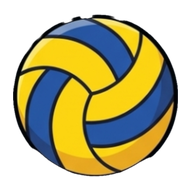
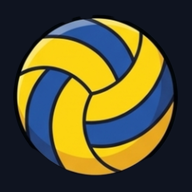
앱 아이콘 어두운 배경으로 복원, 배구공 로딩 화면 추가
- 아이콘 배경을 앱 배경색(#0f1420)으로 변경 → 안드로이드 실행 화면에 배구공만 표시
- 데이터 로딩 동안 단색 배경 + 배구공 로딩 화면 표시 후 페이드아웃
- 서비스워커 캐시 버전 v5

diff --git a/index.html b/index.html
@@ -9,8 +9,16 @@
   <link rel="icon" href="icons/icon-192.png" type="image/png">
   <link rel="apple-touch-icon" href="icons/apple-touch-icon.png">
   <link rel="stylesheet" href="styles.css">
+  <style>
+    #splash { position: fixed; inset: 0; z-index: 9999; display: grid; place-items: center;
+      background: #0f1420; transition: opacity .35s ease; }
+    #splash img { width: 96px; height: 96px; animation: splash-spin 1.4s linear infinite; }
+    #splash.out { opacity: 0; pointer-events: none; }
+    @keyframes splash-spin { to { transform: rotate(360deg); } }
+  </style>
 </head>
 <body>
+  <div id="splash"><img src="icons/ball.png" alt=""></div>
   <div id="app">
     <header id="scorebar"></header>
 

diff --git a/app.js b/app.js
@@ -498,4 +498,12 @@ async function init() {
   }
   if ('serviceWorker' in navigator) navigator.serviceWorker.register('sw.js').catch(() => {});
 }
-init();
+
+// 로딩 화면: 준비되면 (최소 0.6초 보여준 뒤) 사라짐
+const splashMin = new Promise(r => setTimeout(r, 600));
+init().finally(() => splashMin.then(() => {
+  const el = document.getElementById('splash');
+  if (!el) return;
+  el.classList.add('out');
+  el.addEventListener('transitionend', () => el.remove(), { once: true });
+}));

diff --git a/sw.js b/sw.js
@@ -1,5 +1,5 @@
 // 앱 셸 캐시: 캐시 우선 + 백그라운드 갱신 (경기장 네트워크 불안정 대비)
-const CACHE = 'v-rotation-v4';
+const CACHE = 'v-rotation-v5';
 const ASSETS = ['./', 'index.html', 'styles.css', 'app.js', 'state.js', 'data/players.json',
   'manifest.webmanifest', 'icons/icon-192.png', 'icons/icon-512.png', 'icons/icon-maskable-512.png',
   'icons/apple-touch-icon.png', 'icons/ball.png'];

diff --git a/scripts/make_icons.py b/scripts/make_icons.py
@@ -17,10 +17,10 @@ def fit(size, scale, bg=None):
     canvas.alpha_composite(ball.resize((b, b), Image.LANCZOS), ((size - b) // 2, (size - b) // 2))
     return canvas
 
-WHITE = (255, 255, 255, 255)
+DARK = (15, 20, 32, 255)  # 앱 배경색(#0f1420)과 같게 → 실행 화면에서 배구공만 보임
 for size in (192, 512):
-    fit(size, 0.86, WHITE).save(root / f'icon-{size}.png')               # 일반 아이콘 (흰 배경)
-fit(512, 0.72, WHITE).save(root / 'icon-maskable-512.png')              # 안드로이드 적응형 아이콘
-fit(180, 0.86, WHITE).save(root / 'apple-touch-icon.png')
+    fit(size, 0.86, DARK).save(root / f'icon-{size}.png')                # 일반 아이콘 (어두운 배경)
+fit(512, 0.72, DARK).save(root / 'icon-maskable-512.png')               # 안드로이드 적응형 아이콘
+fit(180, 0.86, DARK).save(root / 'apple-touch-icon.png')
 fit(64, 1.0).save(root / 'ball.png')                                     # 서브 표시용
 print('done')
